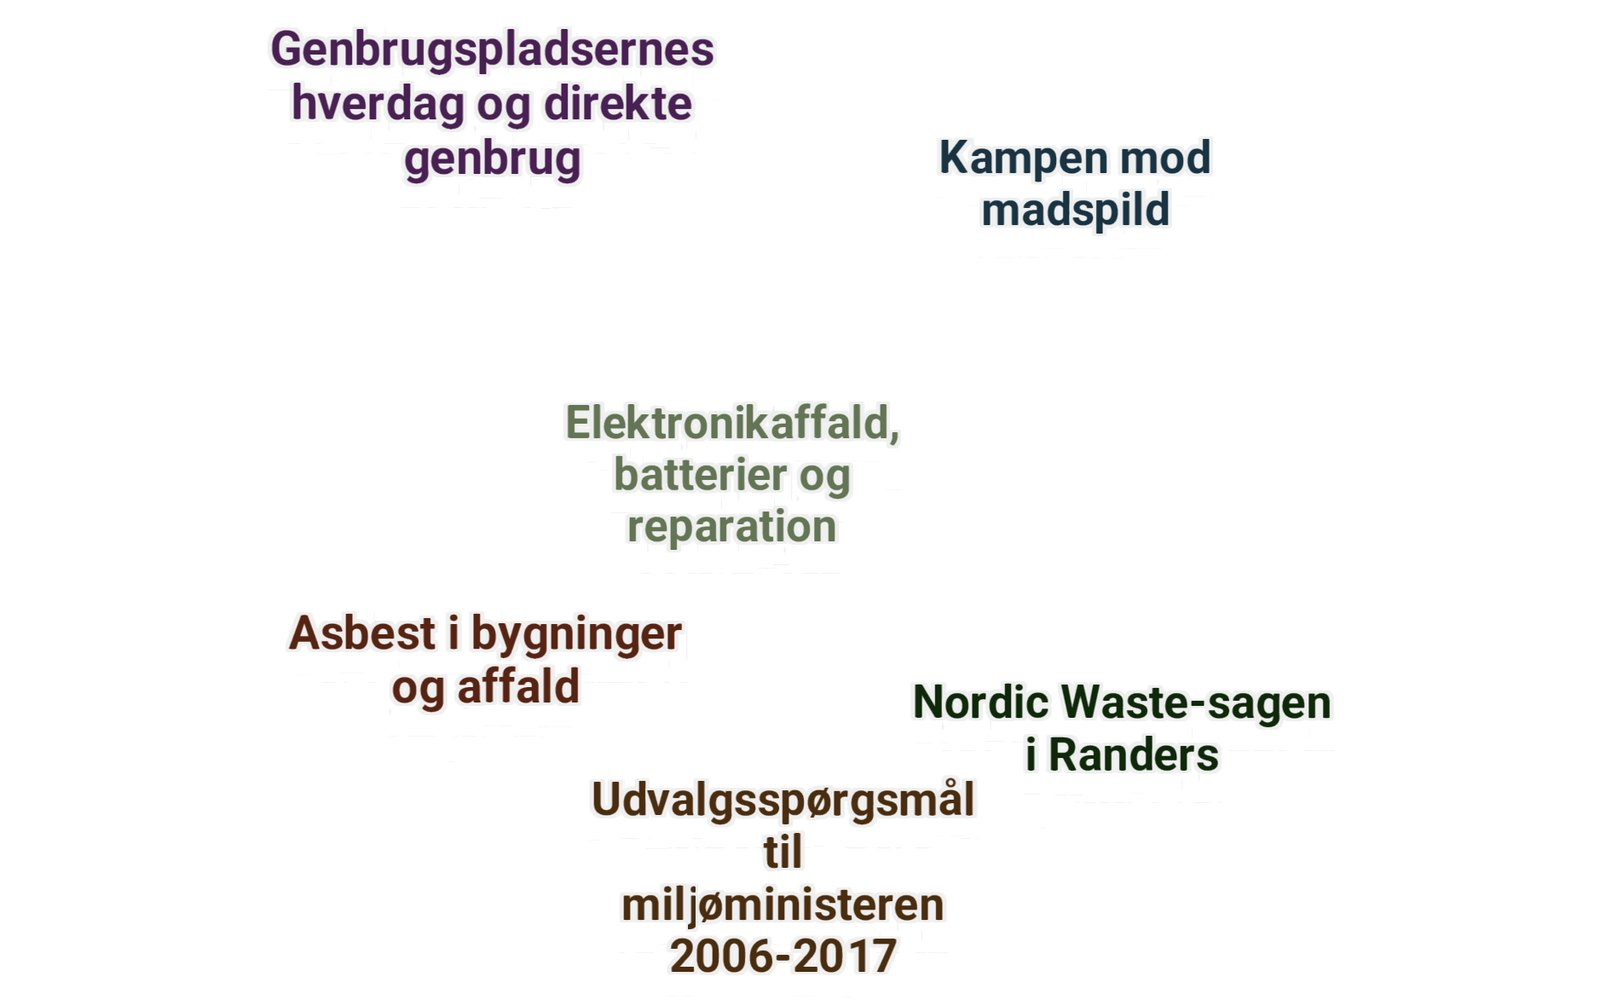
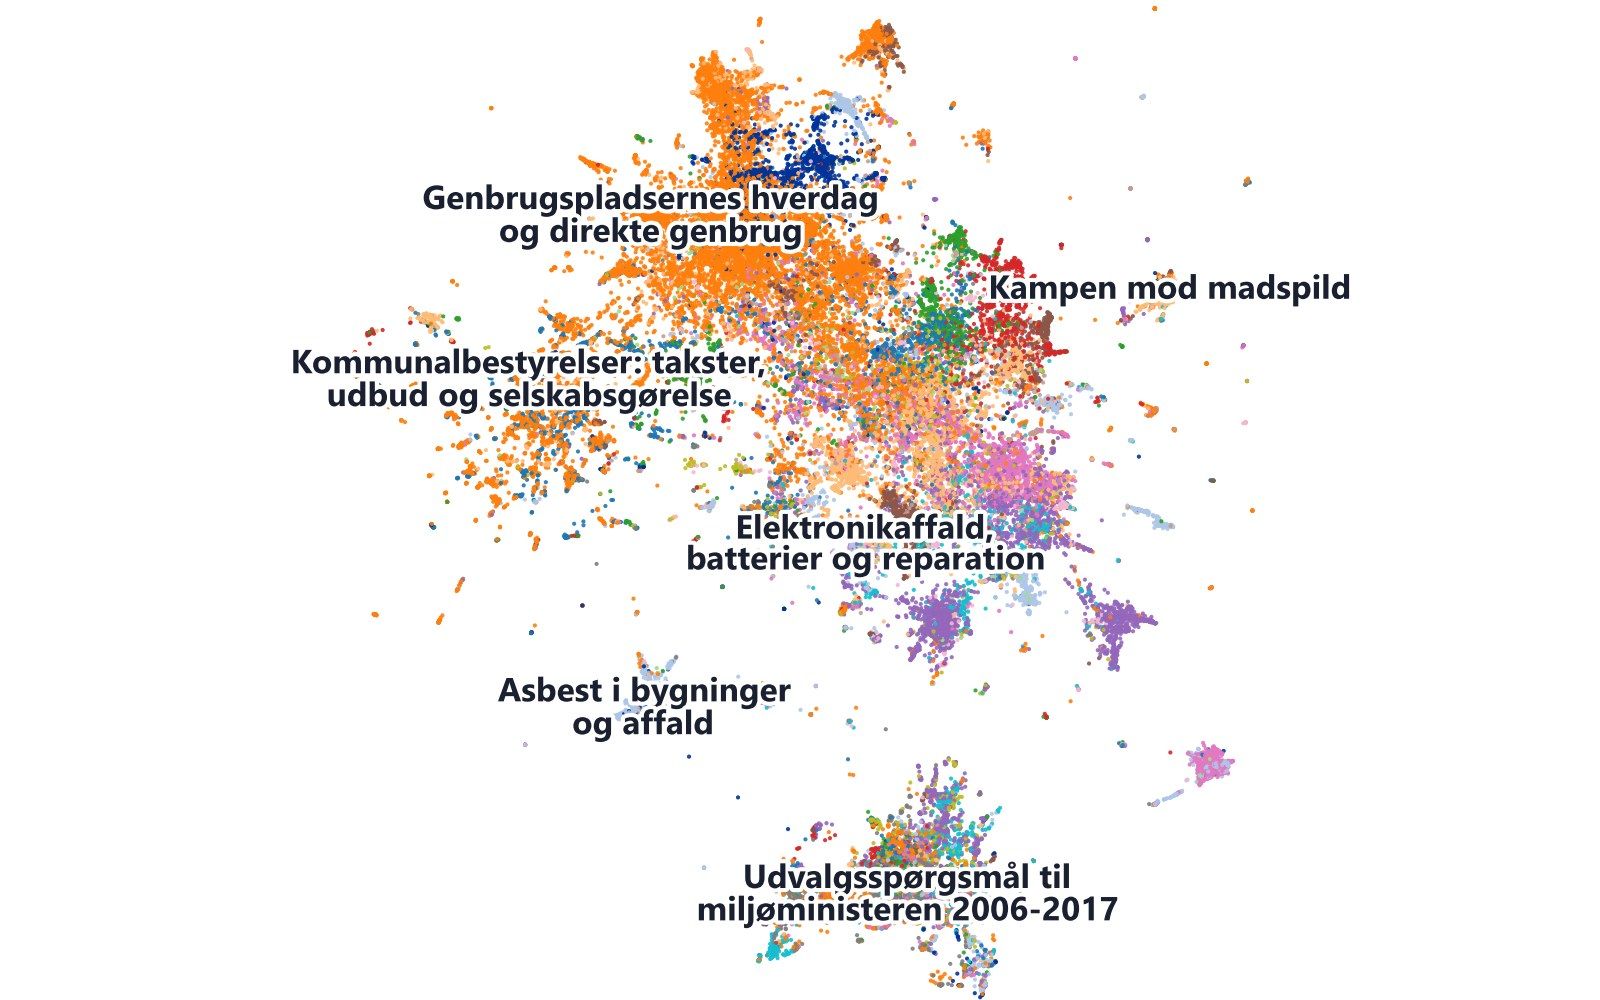
Show the dot map on the homepage card and drop the reference to the inspiration

Changed region(s): [[0.1562, 0.0, 0.8438, 0.806], [0.3438, 0.744, 0.7188, 1.0], [0.1562, 0.62, 0.5, 0.744]]

diff --git a/apps/affaldskort/index.html b/apps/affaldskort/index.html
@@ -836,13 +836,13 @@ function renderMatrix(){
 
 /* ---------- method, sources, docs ---------- */
 document.getElementById('method').innerHTML = md(`
-Kortet er bygget efter samme opskrift som DTU ECHO Labs kort over folketingsvalget 2026, men med et andet korpus: i stedet for kandidaters opslag på sociale medier dækker det **alle offentlige spor af debatten om affaldsbranchen**: nyhedsartikler, pressemeddelelser, debatindlæg, høringssvar, folketingsdokumenter, rapporter og (hvor de kan findes offentligt) opslag på LinkedIn og X.
+Kortet dækker **alle offentlige spor af debatten om affaldsbranchen**: nyhedsartikler, pressemeddelelser, debatindlæg, høringssvar, folketingsdokumenter, rapporter og (hvor de kan findes offentligt) opslag på LinkedIn og X.
 
 1. **Indsamling.** Dokumenterne findes ad flere veje: RSS-feeds fra fagmedier, myndigheder og TV 2-regionerne, Folketingets åbne data (oda.ft.dk: alle spørgsmål, svar og sager om affald siden 2010 med spørgerens navn og parti), Altingets åbne artikel-API, sitemaps og WordPress-API'er hos medier, myndigheder, organisationer, partier og aktørernes egne websteder (hele arkiver tilbage til 2007 hos Ingeniøren, 2009 hos Kommunen.dk, 2019 hos WasteTech), Ritzaus pressemeddelelser, kommunernes dagsordener og referater (FirstAgenda-portalernes åbne API: hvert udvalgs- og byrådspunkt om affald med indstilling og beslutning), Bluesky og YouTube, Wayback Machine for ældre årgange, og research-agenter, der løser opgaver fra en kø (kommune for kommune, politiker for politiker, organisation for organisation, tema for tema) og finder offentlige opslag via søgemaskiner. Et relevansfilter (afstand til debattens temaer i embedding-rummet) sorterer dokumenter fra, der ikke handler om affald.
 2. **Aktørregister.** Hver aktør har type, beskrivelse, links, nøglepersoner, aliaser og holdning. Aktører matches i dokumenterne via navne og aliaser; nye navne, der dukker op gentagne gange, lægges til gennemsyn som kandidater (snowballing).
 3. **Embeddings.** Titel, resumé og citat embeddes med *intfloat/multilingual-e5-base* (god på dansk, kører lokalt på CPU).
 4. **Kort.** UMAP reducerer til to dimensioner; HDBSCAN finder klynger; klyngerne navngives. Nye dokumenter projiceres ind på det frosne kort, og når korpus er vokset meget, tilpasses kortet igen og roteres på plads (Procrustes), så det ligner sig selv.
-5. **Visualisering.** DataMapPlot (samme bibliotek som ECHO) genererer kortene med deck.gl; panelet med filtre og tidshistogram er tilføjet oven på.
+5. **Visualisering.** Open source-biblioteket DataMapPlot genererer kortene med deck.gl; panelet med filtre og tidshistogram er tilføjet oven på.
 
 **Forbehold.** På datara.dk viser kortet ikke nyhedsartiklernes egen tekst. Klik på et punkt for at læse artiklen hos mediet. Aktørernes beskrivelser og holdninger er skrevet ud fra offentlige kilder og er ikke gennemgået af aktørerne selv. Dækningen er skæv mod kilder uden betalingsmur; Infomedia ville give fuld mediedækning. LinkedIn og Facebook har ingen åben API, så opslag derfra kommer kun med, når de findes via søgning eller lægges ind manuelt.
 `);

diff --git a/docs/affaldskort/index.html b/docs/affaldskort/index.html
@@ -836,13 +836,13 @@ function renderMatrix(){
 
 /* ---------- method, sources, docs ---------- */
 document.getElementById('method').innerHTML = md(`
-Kortet er bygget efter samme opskrift som DTU ECHO Labs kort over folketingsvalget 2026, men med et andet korpus: i stedet for kandidaters opslag på sociale medier dækker det **alle offentlige spor af debatten om affaldsbranchen**: nyhedsartikler, pressemeddelelser, debatindlæg, høringssvar, folketingsdokumenter, rapporter og (hvor de kan findes offentligt) opslag på LinkedIn og X.
+Kortet dækker **alle offentlige spor af debatten om affaldsbranchen**: nyhedsartikler, pressemeddelelser, debatindlæg, høringssvar, folketingsdokumenter, rapporter og (hvor de kan findes offentligt) opslag på LinkedIn og X.
 
 1. **Indsamling.** Dokumenterne findes ad flere veje: RSS-feeds fra fagmedier, myndigheder og TV 2-regionerne, Folketingets åbne data (oda.ft.dk: alle spørgsmål, svar og sager om affald siden 2010 med spørgerens navn og parti), Altingets åbne artikel-API, sitemaps og WordPress-API'er hos medier, myndigheder, organisationer, partier og aktørernes egne websteder (hele arkiver tilbage til 2007 hos Ingeniøren, 2009 hos Kommunen.dk, 2019 hos WasteTech), Ritzaus pressemeddelelser, kommunernes dagsordener og referater (FirstAgenda-portalernes åbne API: hvert udvalgs- og byrådspunkt om affald med indstilling og beslutning), Bluesky og YouTube, Wayback Machine for ældre årgange, og research-agenter, der løser opgaver fra en kø (kommune for kommune, politiker for politiker, organisation for organisation, tema for tema) og finder offentlige opslag via søgemaskiner. Et relevansfilter (afstand til debattens temaer i embedding-rummet) sorterer dokumenter fra, der ikke handler om affald.
 2. **Aktørregister.** Hver aktør har type, beskrivelse, links, nøglepersoner, aliaser og holdning. Aktører matches i dokumenterne via navne og aliaser; nye navne, der dukker op gentagne gange, lægges til gennemsyn som kandidater (snowballing).
 3. **Embeddings.** Titel, resumé og citat embeddes med *intfloat/multilingual-e5-base* (god på dansk, kører lokalt på CPU).
 4. **Kort.** UMAP reducerer til to dimensioner; HDBSCAN finder klynger; klyngerne navngives. Nye dokumenter projiceres ind på det frosne kort, og når korpus er vokset meget, tilpasses kortet igen og roteres på plads (Procrustes), så det ligner sig selv.
-5. **Visualisering.** DataMapPlot (samme bibliotek som ECHO) genererer kortene med deck.gl; panelet med filtre og tidshistogram er tilføjet oven på.
+5. **Visualisering.** Open source-biblioteket DataMapPlot genererer kortene med deck.gl; panelet med filtre og tidshistogram er tilføjet oven på.
 
 **Forbehold.** På datara.dk viser kortet ikke nyhedsartiklernes egen tekst. Klik på et punkt for at læse artiklen hos mediet. Aktørernes beskrivelser og holdninger er skrevet ud fra offentlige kilder og er ikke gennemgået af aktørerne selv. Dækningen er skæv mod kilder uden betalingsmur; Infomedia ville give fuld mediedækning. LinkedIn og Facebook har ingen åben API, så opslag derfra kommer kun med, når de findes via søgning eller lægges ind manuelt.
 `);

diff --git a/docs/en/projekter/affaldsdebatten.html b/docs/en/projekter/affaldsdebatten.html
@@ -200,7 +200,7 @@
                                 
                                 <p>The title and summary of each document are turned into a numeric vector by a language model that understands Danish. UMAP lays the vectors out in two dimensions, and HDBSCAN finds the clusters, which we have then named. The tone of each document is scored with the Alexandra Institute&#39;s Danish sentiment model.</p>
                                 
-                                <p>The method follows DTU ECHO Lab&#39;s map of the 2026 Danish general election, and the map is built with DataMapPlot, as ECHO Lab&#39;s is.</p>
+                                <p>The map itself is built with the open-source library DataMapPlot.</p>
                                 
                             </div>
                             

diff --git a/docs/projekter/affaldsdebatten.html b/docs/projekter/affaldsdebatten.html
@@ -200,7 +200,7 @@
                                 
                                 <p>Titel og resumé for hvert dokument bliver omsat til en talvektor med en sprogmodel, der forstår dansk. UMAP lægger vektorerne ud i to dimensioner, og HDBSCAN finder klyngerne, som vi derefter har navngivet. Tonen i dokumenterne er vurderet med Alexandra Instituttets danske sentimentmodel.</p>
                                 
-                                <p>Metoden bygger på DTU ECHO Labs kort over folketingsvalget i 2026, og kortet er lavet med DataMapPlot ligesom ECHO Labs.</p>
+                                <p>Selve kortet er bygget med open source-biblioteket DataMapPlot.</p>
                                 
                             </div>
                             

diff --git a/docs/index.html b/docs/index.html
@@ -209,7 +209,7 @@
 
             <a class="project-card" href="/projekter/affaldsdebatten">
 
-                <img class="project-card-map" src="/static/affaldskort-debatkort.jpg" alt="Kort over debatten om affald i Danmark med navngivne klynger" width="1600" height="1000" loading="lazy" decoding="async">
+                <img class="project-card-map" src="/static/affaldskort-kort.jpg" alt="Kort over debatten om affald i Danmark med navngivne klynger" width="1200" height="750" loading="lazy" decoding="async">
 
                 <div class="project-info">
 

diff --git a/docs/en/index.html b/docs/en/index.html
@@ -209,7 +209,7 @@
 
             <a class="project-card" href="/en/projekter/affaldsdebatten">
 
-                <img class="project-card-map" src="/static/affaldskort-debatkort.jpg" alt="Map of the Danish waste debate with named clusters" width="1600" height="1000" loading="lazy" decoding="async">
+                <img class="project-card-map" src="/static/affaldskort-kort.jpg" alt="Map of the Danish waste debate with named clusters" width="1200" height="750" loading="lazy" decoding="async">
 
                 <div class="project-info">
 

diff --git a/templates/index.html b/templates/index.html
@@ -122,7 +122,7 @@
 
             <a class="project-card" href="{{ page_url('projekt_detail', slug='affaldsdebatten') }}">
 
-                <img class="project-card-map" src="/static/affaldskort-debatkort.jpg" alt="{{ affaldskort_card.image_alt }}" width="1600" height="1000" loading="lazy" decoding="async">
+                <img class="project-card-map" src="/static/affaldskort-kort.jpg" alt="{{ affaldskort_card.image_alt }}" width="1200" height="750" loading="lazy" decoding="async">
 
                 <div class="project-info">
 

diff --git a/tests/test_affaldskort.py b/tests/test_affaldskort.py
@@ -28,7 +28,7 @@ class AffaldskortProjectTests(unittest.TestCase):
                 self.assertRegex(
                     html,
                     rf'<a class="project-card" href="{prefix}/projekter/affaldsdebatten">\s*'
-                    r'<img class="project-card-map" src="/static/affaldskort-debatkort\.jpg"[\s\S]*?' + title,
+                    r'<img class="project-card-map" src="/static/affaldskort-kort\.jpg"[\s\S]*?' + title,
                 )
 
     def test_article_renders_in_both_languages_with_links_to_the_map(self):
@@ -51,6 +51,15 @@ class AffaldskortProjectTests(unittest.TestCase):
                 self.assertEqual(len(re.findall(r'<h1(?:\s|>)', html)), 1)
                 self.assertNotIn('–', html)
                 self.assertNotIn('—', html)
+
+    def test_no_mention_of_the_inspiration_from_dtu(self):
+        # Simon 25-09-2026: kortet og siden må ikke omtale, at de er inspireret af DTU/ECHO Lab
+        for path in ('/projekter/affaldsdebatten', '/en/projekter/affaldsdebatten', '/', '/en/'):
+            with self.subTest(path=path):
+                html = self._html(path)
+                self.assertNotIn('ECHO', html)
+        if (affaldskort_content.APP_DIR / 'index.html').is_file():
+            self.assertNotIn('ECHO', self._html('/affaldskort/'))
 
     def test_article_mentions_the_latest_update(self):
         html = self._html('/projekter/affaldsdebatten')

diff --git a/affaldskort_content.py b/affaldskort_content.py
@@ -121,8 +121,7 @@ PROJECT = {
                         'forstår dansk. UMAP lægger vektorerne ud i to dimensioner, og HDBSCAN finder klyngerne, som '
                         'vi derefter har navngivet. Tonen i dokumenterne er vurderet med Alexandra Instituttets '
                         'danske sentimentmodel.',
-                        'Metoden bygger på DTU ECHO Labs kort over folketingsvalget i 2026, og kortet er lavet med '
-                        'DataMapPlot ligesom ECHO Labs.',
+                        'Selve kortet er bygget med open source-biblioteket DataMapPlot.',
                     ],
                 },
                 {
@@ -206,8 +205,7 @@ PROJECT = {
                         'that understands Danish. UMAP lays the vectors out in two dimensions, and HDBSCAN finds the '
                         "clusters, which we have then named. The tone of each document is scored with the Alexandra "
                         "Institute's Danish sentiment model.",
-                        "The method follows DTU ECHO Lab's map of the 2026 Danish general election, and the map is "
-                        'built with DataMapPlot, as ECHO Lab\'s is.',
+                        'The map itself is built with the open-source library DataMapPlot.',
                     ],
                 },
                 {
